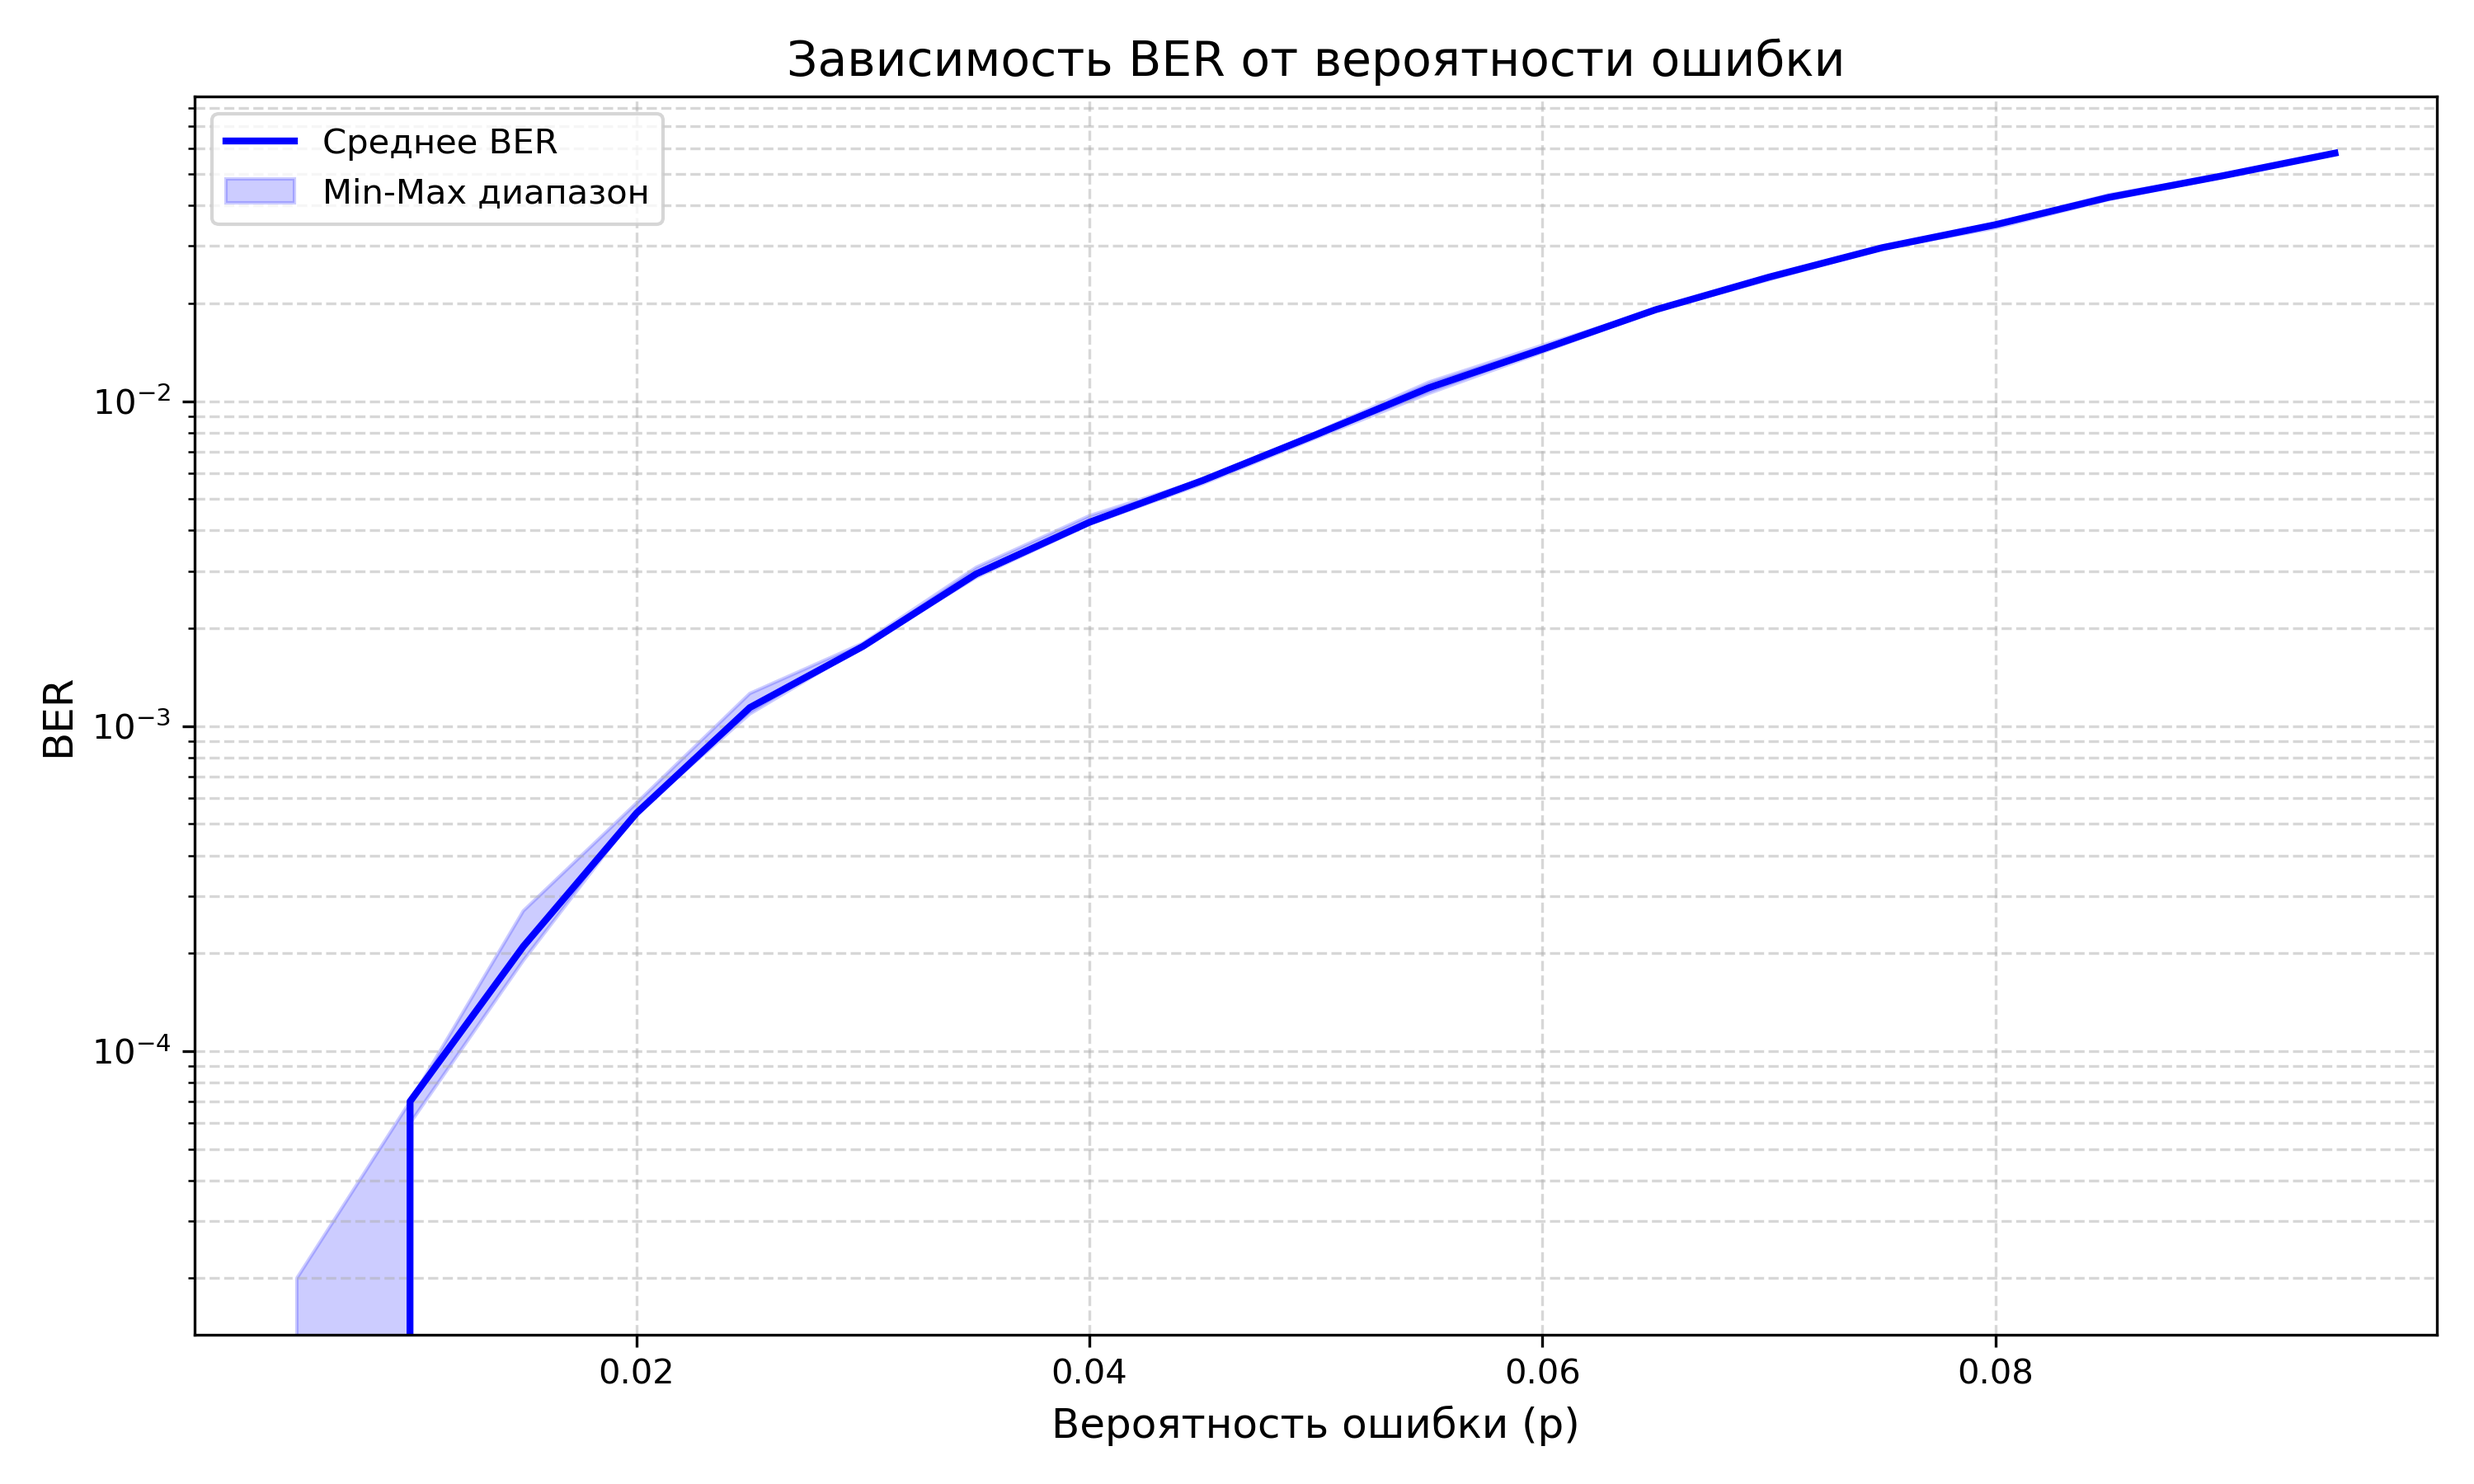
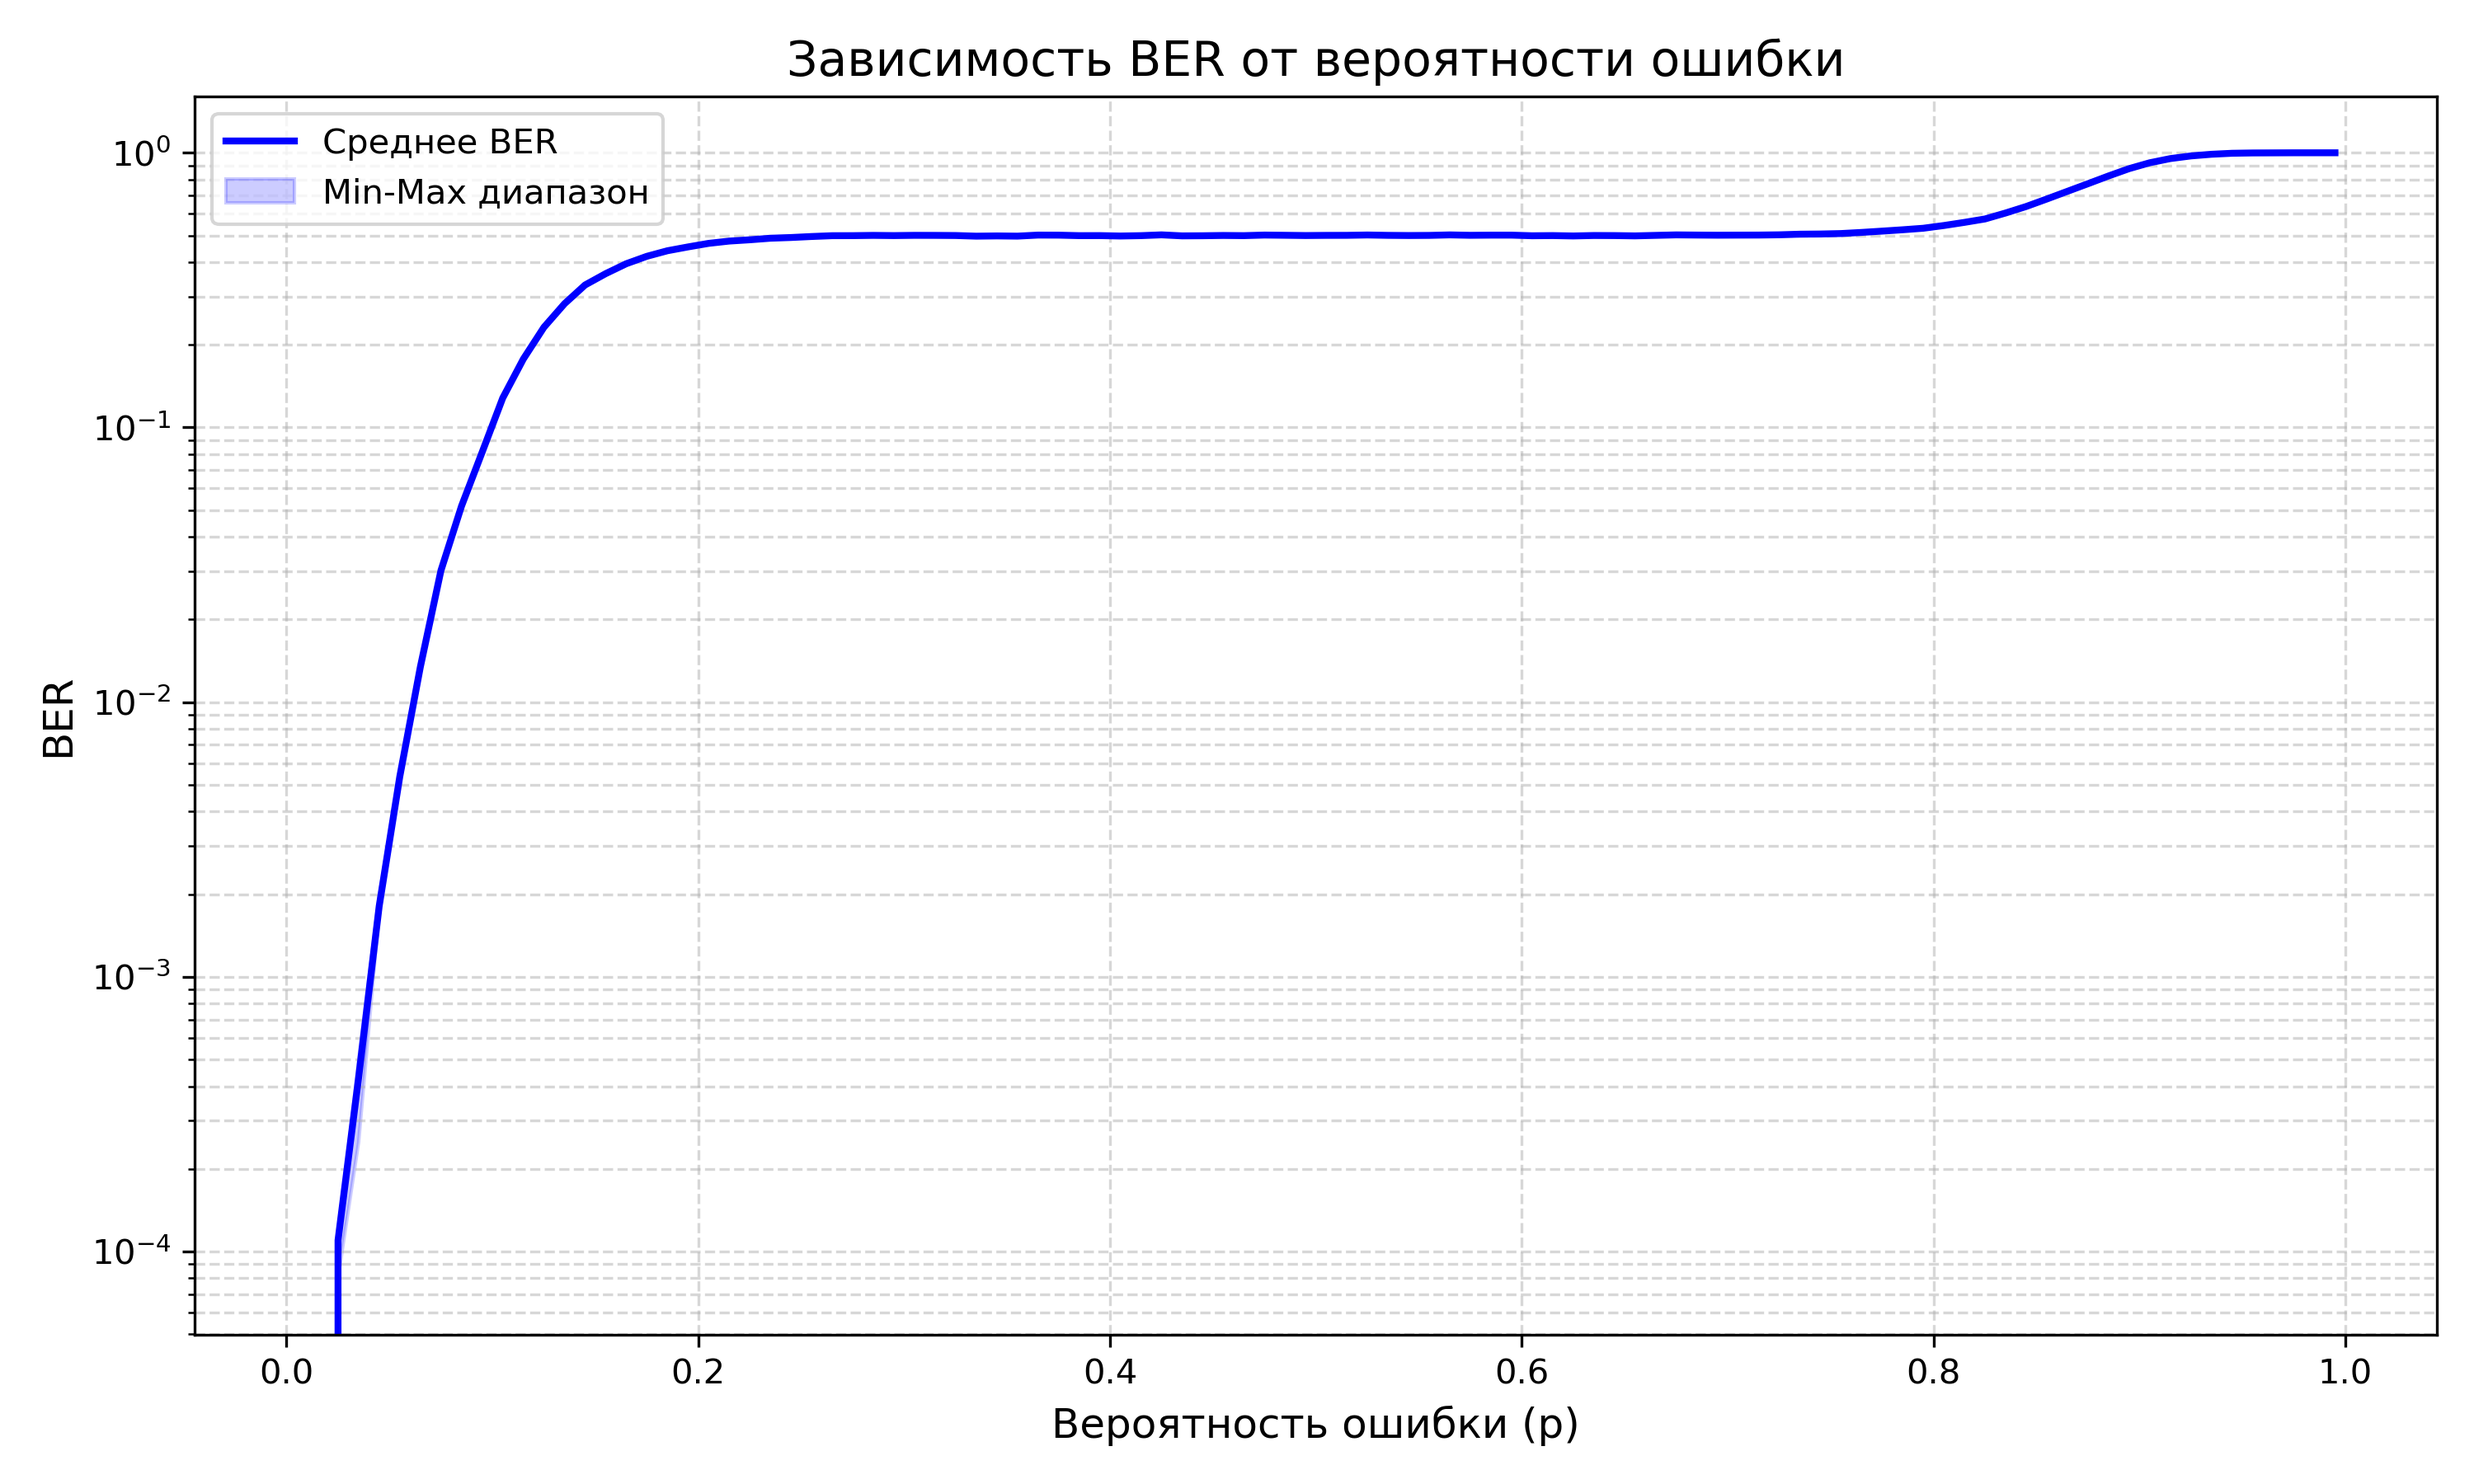
"исправил" баг с большими значениями генераторов

diff --git a/Pipeline.cpp b/Pipeline.cpp
@@ -57,7 +57,7 @@ float Pipeline(float gen_p, float p, int k, int n, int m, vector<vector<int>> &g
 }
 
 
-float RealTimePipeline(float gen_p, float p, int k, int n, int m, vector<vector<int>> &g, int N) {
+float RealTimePipeline(float gen_p, float p, int k, int n, int m, vector<vector<int>> &g, int N, int speed) {
     Generator G(gen_p);
     BSC bsc(p);
     Encoder encoder(k, n, m, g);
@@ -70,7 +70,6 @@ float RealTimePipeline(float gen_p, float p, int k, int n, int m, vector<vector<
 
     vector<int> data_buffer(20), decoded_buffer(20);
     printf("\e[?25l");
-    
     for (int i = 0; i < data.size(); i++) {
 
         vector<int> encoded_data = encoder.encode(data[i]);
@@ -92,7 +91,7 @@ float RealTimePipeline(float gen_p, float p, int k, int n, int m, vector<vector<
             data_buffer[i] = data_buffer[(i+1) % data_buffer.size()];
         }
         if (i + 1 >= decoder.DECODING_DEPTH)
-            data_buffer[data_buffer.size() - 1] = data[i - decoder.DECODING_DEPTH];
+            data_buffer[data_buffer.size() - 1] = data[i - decoder.DECODING_DEPTH + 1];
         else 
             data_buffer[data_buffer.size() - 1] = 0;
         
@@ -106,18 +105,30 @@ float RealTimePipeline(float gen_p, float p, int k, int n, int m, vector<vector<
         printf("-> {%d}", (i + 1 >= decoder.DECODING_DEPTH) ? decoded_data: 0);
 
         printf("\nDecoded data   : ");
-        for (int i = 0; i < decoded_buffer.size(); i++) {
-            if (i < decoded_buffer.size() - 1) printf("%d ", decoded_buffer[i]);
-            else printf("{%d}", decoded_buffer[i]);
-            
-            decoded_buffer[i] = decoded_buffer[(i+1) % decoded_buffer.size()];
+
+        for (int j = 0; j < decoded_buffer.size(); j++) {
+            if (j < decoded_buffer.size() - 1) {
+                if (decoded_buffer[j] > 1) {
+                    printf("%c ", decoded_buffer[j]);
+                }
+                else
+                    printf("%d ", decoded_buffer[j]);
+            }
+            else {
+                if (decoded_buffer[j] > 1) {
+                    printf("{%c}", decoded_buffer[j]);
+                }
+                else
+                    printf("{%d}", decoded_buffer[j]);
+            }
+            decoded_buffer[j] = decoded_buffer[(j+1) % decoded_buffer.size()];
         }
 
         if (i + 1 >= decoder.DECODING_DEPTH)
             decoded_buffer[decoded_buffer.size() - 1] = decoded_data;
         else 
             decoded_buffer[decoded_buffer.size() - 1] = 0;
-        usleep(500);
+        usleep(speed * 1000);
 
         printf("\nError Rate     : %.3f", error_rate);
 
@@ -130,4 +141,3 @@ float RealTimePipeline(float gen_p, float p, int k, int n, int m, vector<vector<
     printf("\n");
     return error_rate;
 }
-

diff --git a/Viterbi.cpp b/Viterbi.cpp
@@ -14,6 +14,7 @@ struct trel {
     vector<int> output;
 };
 
+
 FILE* enc_log = fopen("encoder.txt", "w");
 FILE* dec_log = fopen("decoder.txt", "w");
 
@@ -23,7 +24,7 @@ class Encoder {
         int k;  // кол-во входов (пока что реализован только один)
         int n;  // Количество выходов
         int m;  // Память
-        vector<vector<int>> generators;  // Генераторные полиномы
+        vector<vector<int>> generators;  // Генераторные полиномы в !!!восьмеричной!!! СИ
         int NUM_STATES;
 
         Encoder(int k, int n, int m, const vector<vector<int>>& gens): k(k), n(n), m(m), generators(gens) {

diff --git a/TestDecoder.cpp b/TestDecoder.cpp
@@ -4,14 +4,15 @@ using namespace std;
 
 int main() {
     float gen_p = 0.5;
-    float p = 0.1;
-    int N = 10000;
-    int k=1, n=2, m=2;
-    vector<vector<int>> g{{7}, {5}};
+    float p = 0.01;
+    int N = 100000;
+    int k=1, n=2, m=6;
+    int speed = 100; 
+    vector<vector<int>> g{{0171}, {0133}};
     
     // float error_rate = Pipeline(gen_p, p, k, n, m, g, N);
     // printf("Error Rate = %.6f", error_rate);
-    float error_rate = RealTimePipeline(gen_p, p, k, n, m, g, N);
+    float error_rate = RealTimePipeline(gen_p, p, k, n, m, g, N, speed);
     printf("\n\n\nError Rate = %.6f", error_rate);
 }
 

diff --git a/TestBER.cpp b/TestBER.cpp
@@ -11,12 +11,12 @@ void BER(string csv_name) {
 
     float gen_p = 0.5;
     int N = 100000;
-    int k=1, n=2, m=2;
-    vector<vector<int>> g{{7}, {5}};
+    int k=1, n=2, m=6;
+    vector<vector<int>> g{{0171}, {0133}};
 
     fout << "p, BER_min, BER_avg, BER_max\n";
 
-    for (float p = 0.005; p <= 0.1; p+=0.005) {
+    for (float p = 0.005; p <= 1; p+=0.01) {
         vector<float> bit_error_rates(3);
 
         for (int i = 0; i < bit_error_rates.size(); i++) {
